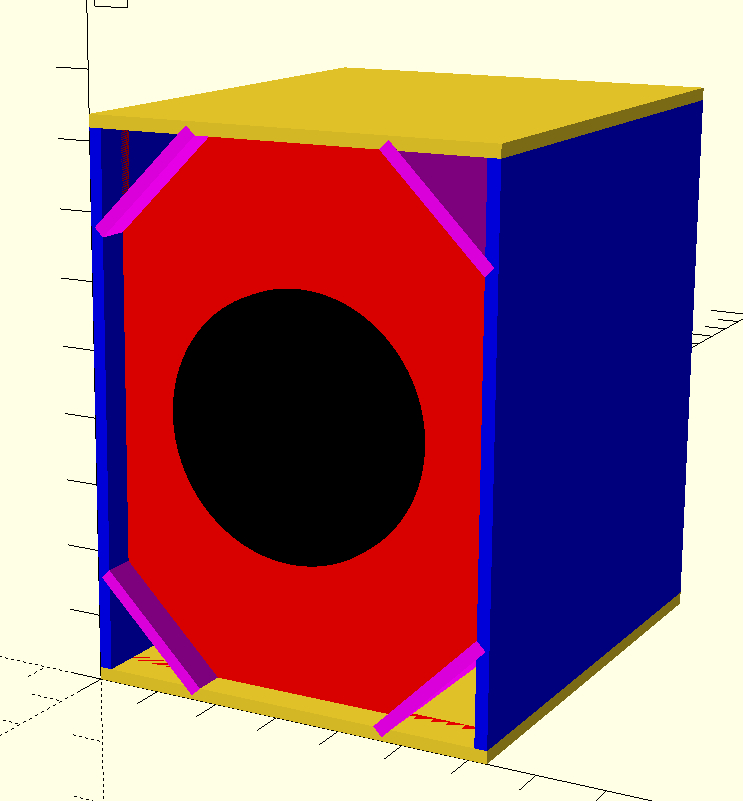
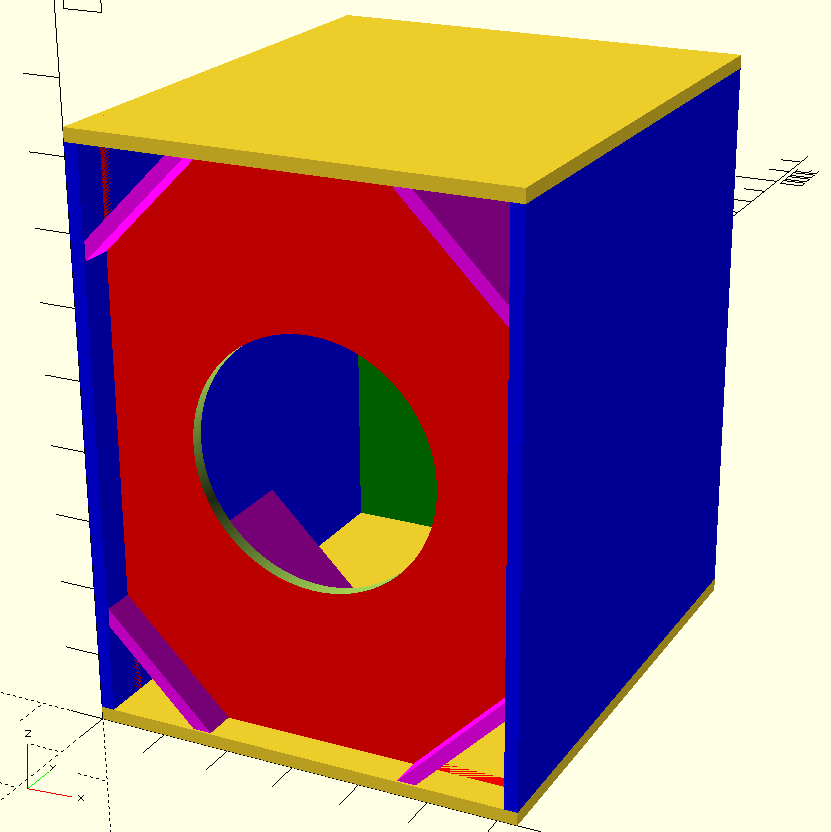
Improve readme

diff --git a/readme.md b/readme.md
@@ -23,6 +23,8 @@ OpenSCAD code for generating the model of the enclosure is in [ultimax_15_vented
 
 ## Panel sizes
 
+For 19mm plywood
+
 * Port panels x4: 443 x 217.605 - should be 179.605 wide on short side of bevel
 * Bottom: 748 x 628
 * Top: 748 x 628
@@ -71,8 +73,22 @@ Metrics:
 
 Results from modelling in WinISD
 
+### Transfer magnitude function
+
 ![Transfer magnitude function](transfer_magnitude_function.jpg)
+
+### SPL
+
 ![Sound pressure level](spl.jpg)
+
+### Rear port air velocity
+
 ![Rear port air velocity](rear_port_air_velocity.jpg)
+
+### Group delay
+
 ![Group delay](group_delay.jpg)
+
+### Cone excursion
+
 ![Cone excursion](cone_excursion.jpg)
